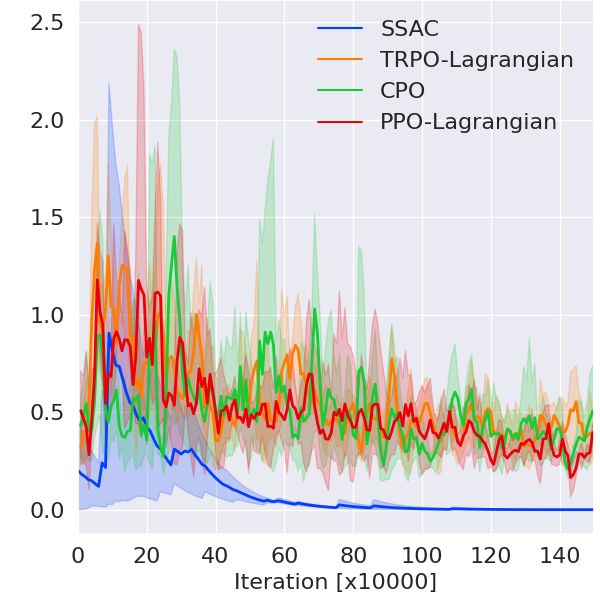
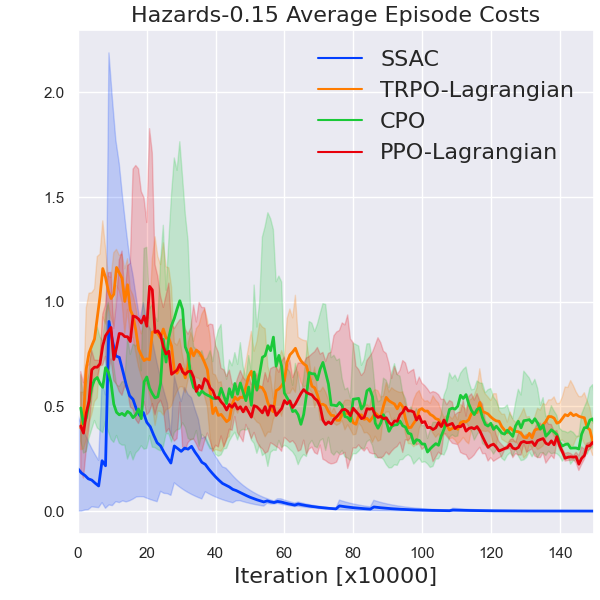
update plots

diff --git a/data_process/lineplot.py b/data_process/lineplot.py
@@ -14,17 +14,23 @@ import json
 
 sns.set(style="darkgrid")
 SMOOTHFACTOR = 0.1
-SMOOTHFACTOR2 = 3
+SMOOTHFACTOR2 = 8
 DIV_LINE_WIDTH = 50
 txt_store_alg_list = ['CPO', 'PPO-L', 'TRPO-L','PPO-DA']
+env_name_dict = dict(CustomGoal2='Hazards-0.15', CustomGoal3='Hazards-0.30',
+                     CustomGoalPillar2='Pillars-0.15',CustomGoalPillar3='Pillar-0.30')
+tag_name_dict = dict(episode_return='Average Episode Return', episode_cost='Average Episode Costs',
+                     cost_rate='Cost Rate',num_sampled_costs='Accumulative Costs')
+label_font_prop = dict(family='Microsoft YaHei', size=16)
+legend_font_prop = dict(family='Microsoft YaHei')
 
 def help_func():
     tag2plot = ['episode_return','episode_cost' ] #  'episode_return',
-    # tag2plot = ['cost_rate','num_sampled_costs']
+    # tag2plot = ['cost_rate']
     # alg_list = ['FSAC', 'TRPO-L', 'CPO', 'PPO-L'] # 'SAC',
-    alg_list = ['PPO-DA', 'TRPO-L', 'CPO', 'PPO-L']  # 'SAC',
+    alg_list = ['FSAC', 'TRPO-L', 'CPO', 'PPO-L']  # 'SAC',
     lbs = ['SSAC','TRPO-Lagrangian', 'CPO', 'PPO-Lagrangian'] # 'SAC',
-    task = ['CustomGoal3']
+    task = ['CustomGoal2']
     palette = "bright"
     goal_perf_list = [-200, -100, -50, -30, -20, -10, -5]
     dir_str = '../results/{}/{}' # .format(algo name) # /data2plot
@@ -80,13 +86,14 @@ def plot_eval_results_of_all_alg_n_runs(dirs_dict_for_plot=None):
         total_dataframe = df_list[0].append(df_list[1:], ignore_index=True) if len(df_list) > 1 else df_list[0]
         for tag in tag2plot:
             figsize = (6,6)
-            axes_size = [0.13, 0.11, 0.86, 0.89]
+            axes_size = [0.13, 0.11, 0.86, 0.84]
             fontsize = 16
             f1 = plt.figure(figsize=figsize)
             ax1 = f1.add_axes(axes_size)
             sns.lineplot(x="iteration", y=tag, hue="algorithm",
                          data=total_dataframe, linewidth=2, palette=palette
                          )
+            title = env_name_dict[task] + ' ' + tag_name_dict[tag]
             ax1.set_ylabel('')
             ax1.set_xlabel("Iteration [x10000]", fontsize=fontsize)
             handles, labels = ax1.get_legend_handles_labels()
@@ -95,6 +102,7 @@ def plot_eval_results_of_all_alg_n_runs(dirs_dict_for_plot=None):
             plt.yticks(fontsize=fontsize)
             plt.xticks(fontsize=fontsize)
             plt.xlim([0, 150])
+            plt.title(title, label_font_prop)
             # plt.show()
             fig_name = '../data_process/figure/' + task+'-'+tag + '.png'
             plt.savefig(fig_name)

diff --git a/train_scripts/train_script4fsac.py b/train_scripts/train_script4fsac.py
@@ -65,16 +65,16 @@ NUM_BUFFER = 10
 def built_FSAC_parser(alg_name):
     parser = argparse.ArgumentParser()
 
-    parser.add_argument('--mode', type=str, default='training') # training testing
+    parser.add_argument('--mode', type=str, default='testing') # training testing
     mode = parser.parse_args().mode
 
     if mode == 'testing':
-        test_dir = '../results/FSAC/CustomGoal2/CustomGoal2-2021-07-08-00-24-06'
+        test_dir = '../results/FSAC/CustomGoalPillar3/data2plot/CustomGoalPillar3-2021-08-19-11-15-40'
         params = json.loads(open(test_dir + '/config.json').read())
         time_now = datetime.datetime.now().strftime("%Y-%m-%d-%H-%M-%S")
         test_log_dir = params['log_dir'] + '/tester/test-{}'.format(time_now)
         params.update(dict(test_dir=test_dir,
-                           test_iter_list=[1000000],
+                           test_iter_list=[1400000],
                            test_log_dir=test_log_dir,
                            num_eval_episode=5,
                            num_eval_agent=1,
